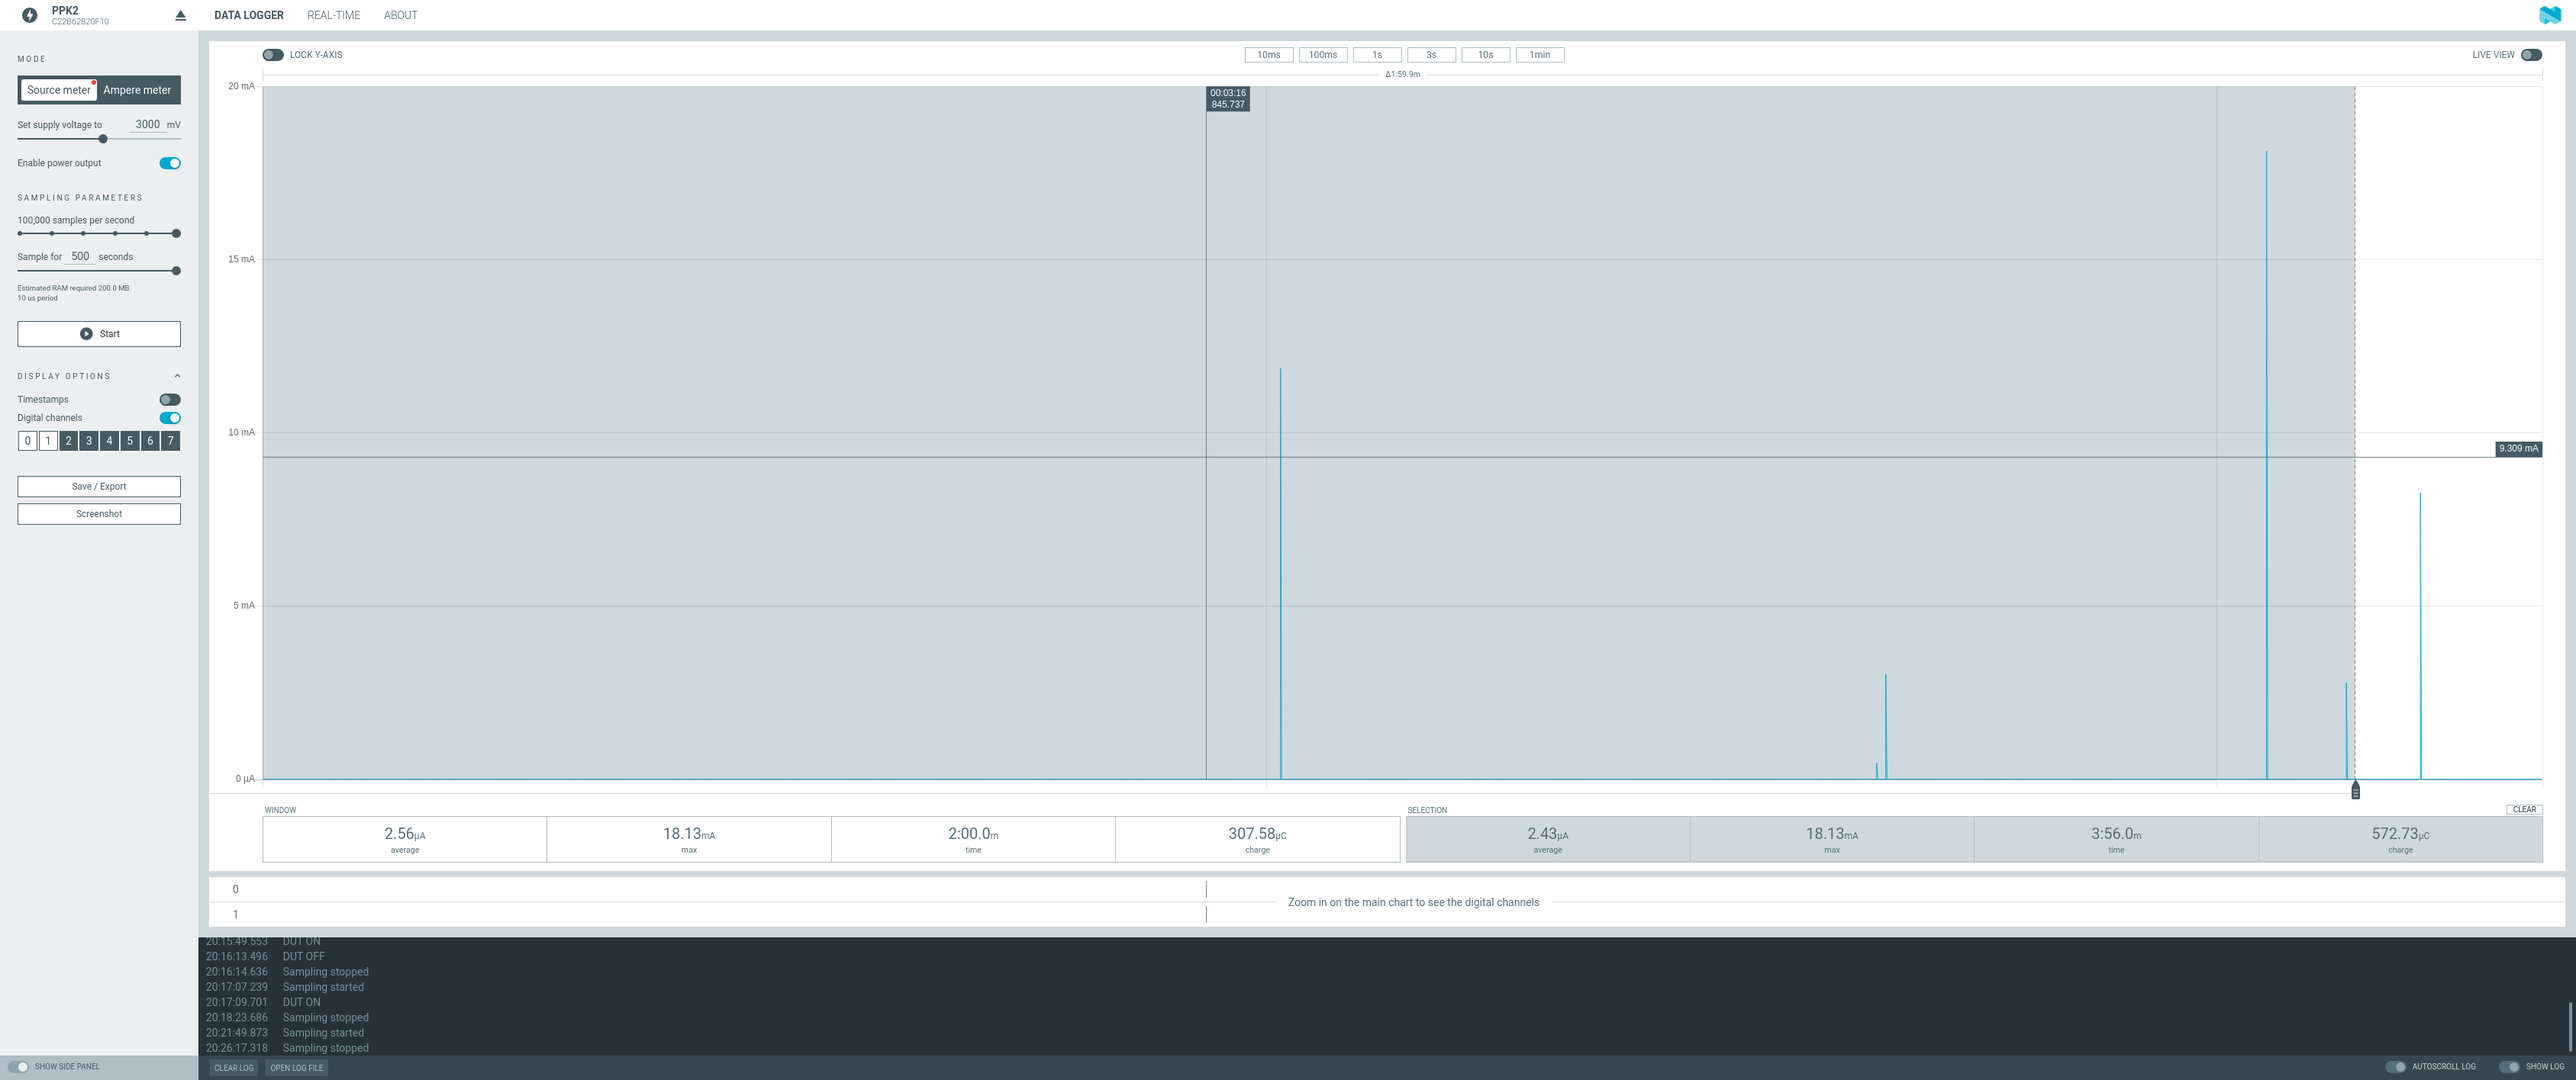
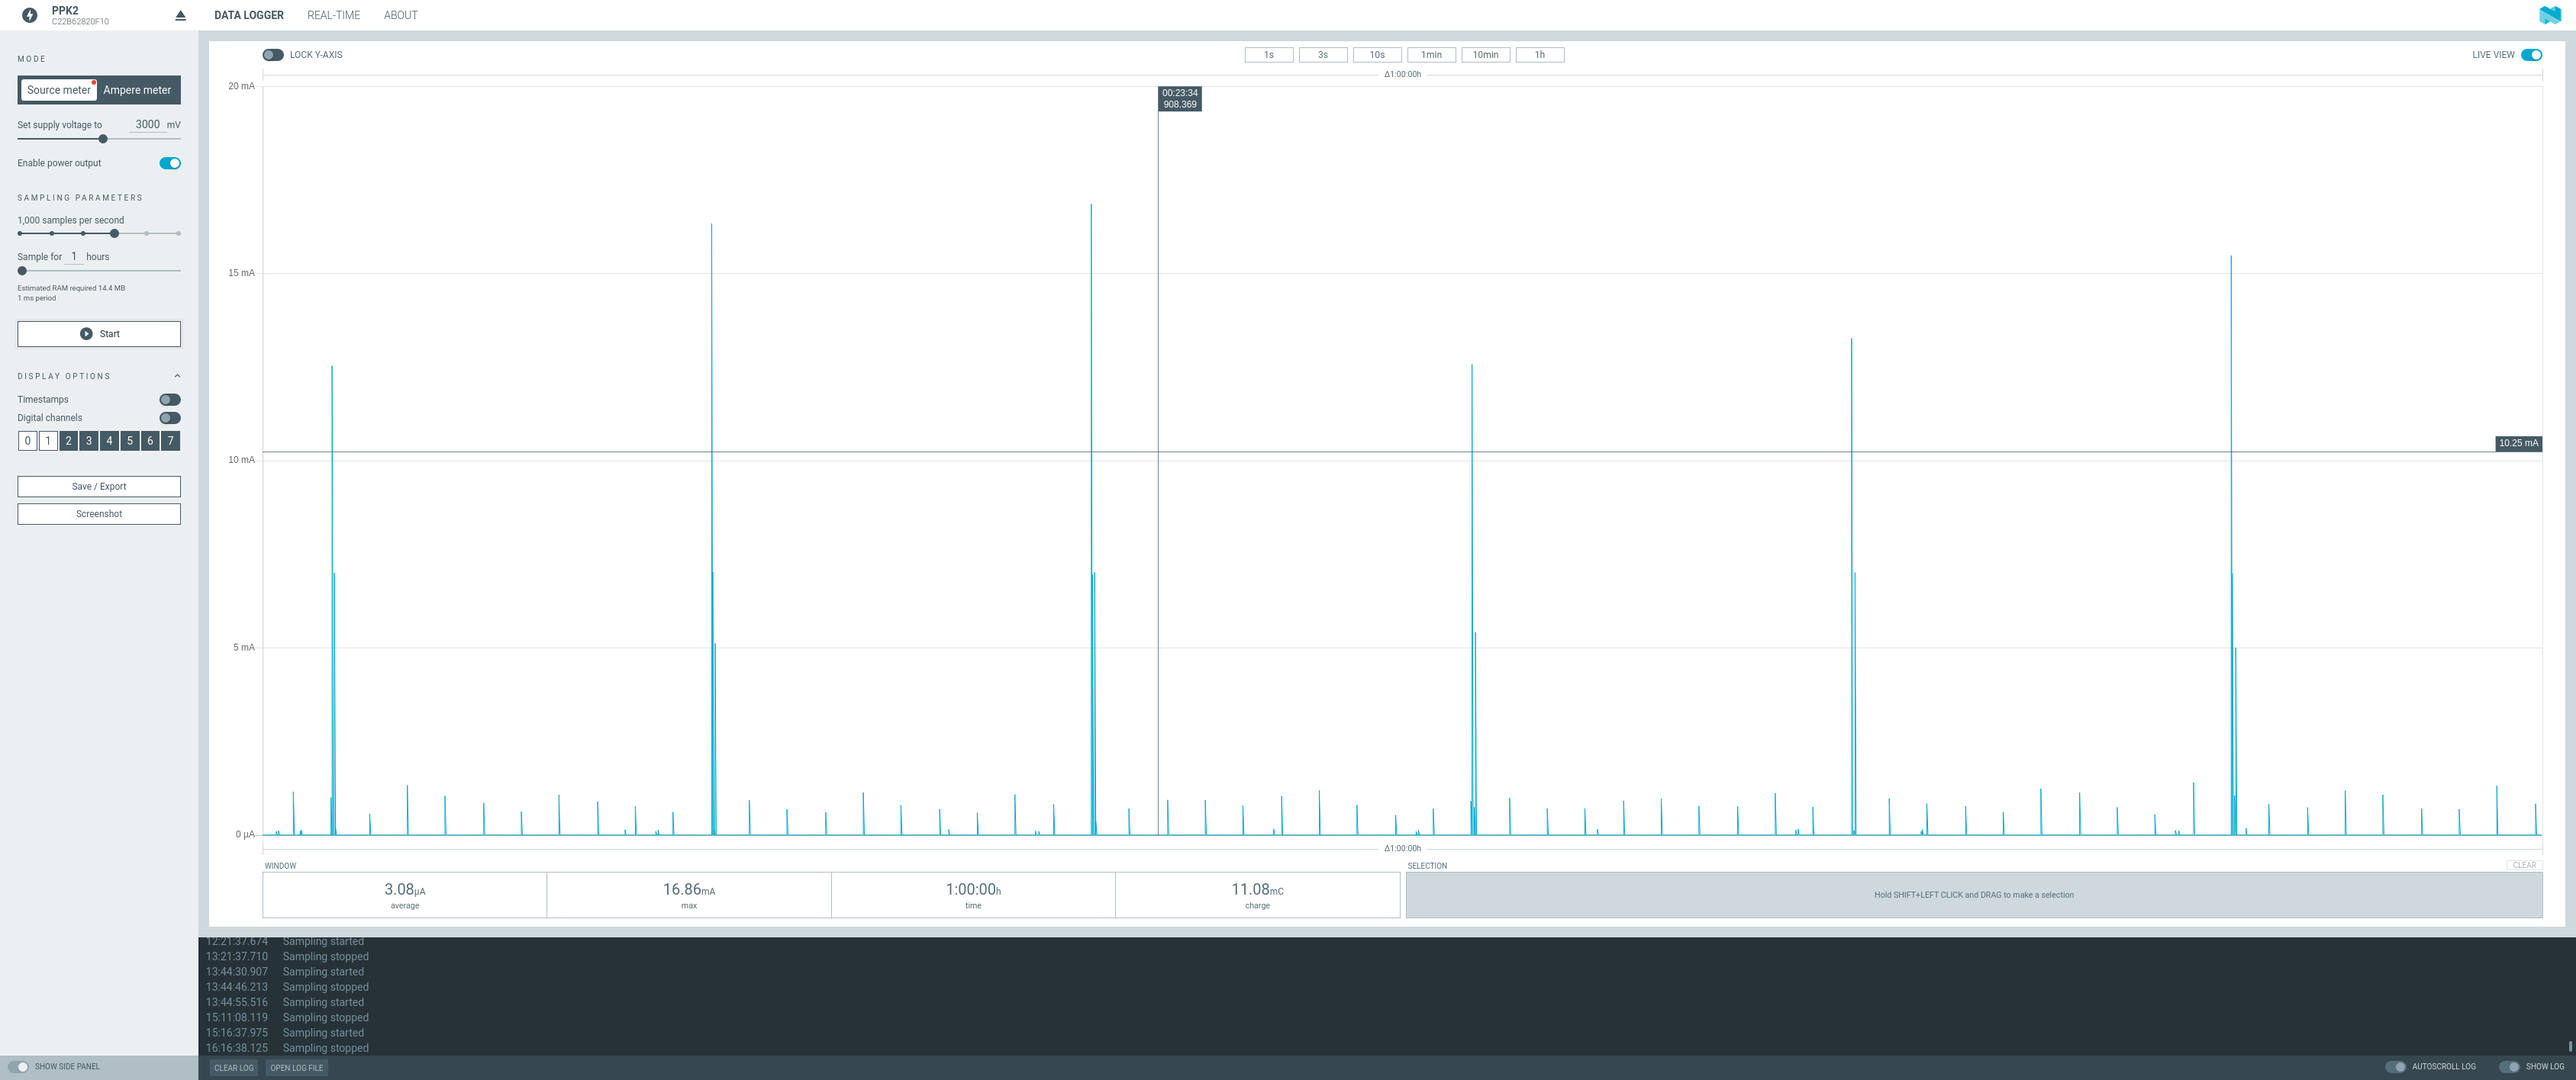
Update consumption calculations and screenshots

diff --git a/README.md b/README.md
@@ -132,57 +132,54 @@ With the default prefix those forwards are prohibited by [RFC 6052](https://data
 
 ### Idle
 
-Average: 2.43µA
+Average: 3.08µA
 
-The child (SED) poll period is set to 236s.
-
-This selection is a full window starting from after the previous poll to after
-this last poll.
+The code wakes up every 10 minutes to feed watchdogs and ping the MQTT server.
 
 ![Idle Consumption](assets/img/idle-consumption.png)
 
 ### Button press
 
-Each press: 2.03mC
+Each press: 529µC
 
 ![Press Consumption](assets/img/press-consumption.png)
 
 ## CR2032 expected life
 
-Based on commit [`9aaf1e6efb23c5ed54ebaed8196d6e84e29ed6b3`](https://github.com/fgervais/project-nrf-thread-switch/tree/9aaf1e6efb23c5ed54ebaed8196d6e84e29ed6b3/app)
+Based on commit [`0b7e4261842cd136ae4fb1d94227af606ecbea2d`](https://github.com/fgervais/project-nrf-thread-switch/tree/0b7e4261842cd136ae4fb1d94227af606ecbea2d)
 
 Energizer CR2032 = $810 \\, C$
 
 ### Idle all the time
 
 ```math
-\frac{810 \, C}{2.43 \times 10^-6 \, \frac{C}{s}} = 333.33 \times 10^6 \, s
+\frac{810 \, C}{3.08 \times 10^-6 \, \frac{C}{s}} = 262.987 \times 10^6 \, s
 ```
 
 ```math
-333.33 \times 10^6 \, seconds \times \frac{1 \, minute}{60 \, second} \times \frac{1 \, hour}{60 \, minute} \times \frac{1 \, day}{24 \, hour} \times \frac{1 \, year}{365.25 \, days} = 10.56 \, years
+262.987 \times 10^6 \, seconds \times \frac{1 \, minute}{60 \, second} \times \frac{1 \, hour}{60 \, minute} \times \frac{1 \, day}{24 \, hour} \times \frac{1 \, year}{365.25 \, days} = 8.33 \, years
 ```
 
 ### 50 presses per day
 
 Idle consumption per day:
 ```math
-2.43 \times 10^-6 \, \frac{C}{s} \times (60 \times 60 \times 24) = 209.95 \times 10^-3 \frac{C}{day}
+3.08 \times 10^-6 \, \frac{C}{s} \times (60 \times 60 \times 24) = 266.11 \times 10^-3 \frac{C}{day}
 ```
 
 Press consumption per day:
 ```math
-2.03 \times 10^-3 \, C \times 50 = 101.5 \times 10^-3 \, C
+529 \times 10^-6 \, C \times 50 = 26.45 \times 10^-3 \, C
 ```
 
 Total per day:
 ```math
-209.95 \times 10^-3 \frac{C}{day} + 101.5 \times 10^-3 \, \frac{C}{day} = 311.45 \times 10^-3 \, \frac{C}{day}
+266.11 \times 10^-3 \frac{C}{day} + 26.45 \times 10^-3 \, \frac{C}{day} = 292.56 \times 10^-3 \, \frac{C}{day}
 ```
 
 Runtime:
 ```math
-810 \, C \div 311.45 \times 10^-3 \, \frac{C}{day} = 2600.72 \, days = 7.12 \, years
+810 \, C \div 292.56 \times 10^-3 \, \frac{C}{day} = 2768 \, days = 7.58 \, years
 ```
 
 Note: We did not substract the press time from the idle time. It will affect 
